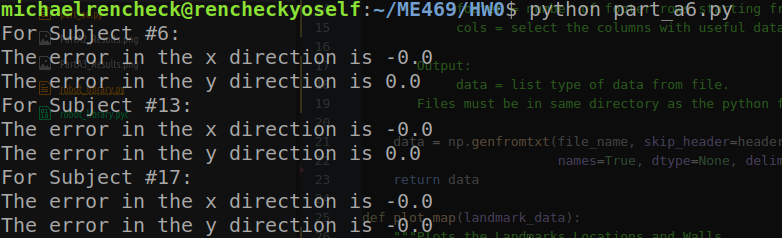
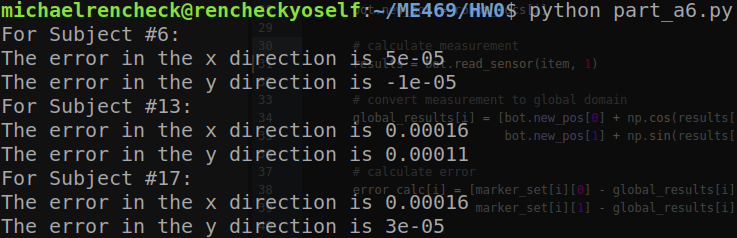
Added README file and noise to movement and measurement models

Changed region(s): [[0.0, 0.0, 1.0, 0.6765], [0.0, 0.7059, 0.9986, 1.0], [0.7178, 0.6471, 1.0, 0.7059]]

diff --git a/HW0/robot_library.py b/HW0/robot_library.py
@@ -17,13 +17,14 @@ class Robot:
 
 
 
-    def make_move(self, movement_set):
+    def make_move(self, movement_set, noise_check):
         """Used to calculate the motion model
             Function to return the next point of motion over some change in time given
             the starting point and velocities.
 
             Input Variable Syntax:
                   movementSet = [v,w,dt]
+                  noise_check = 1 to turn on noise, else add zero noise
 
             Output Variable:
                   newPos = [x,y,heading] relative to the robot's domain
@@ -38,15 +39,27 @@ class Robot:
         vel[1] = movement_set[0]*np.sin(self.cur_pos[2])
         vel[2] = movement_set[1]
 
+        # Create Noise Matrix
+        # std dev for x and y assumed to be .004m
+        # std dev for theta assumed to be .05rad
+        trans_var = 0.000016
+        ang_var = 0.0025
+
+        if noise_check == 1:
+            epsilon = [np.random.normal(0, trans_var), np.random.normal(0, trans_var),
+                       np.random.normal(0, ang_var)]
+        else:
+            epsilon = [0, 0, 0]
+
         #calculate the new position
         for i in range(len(self.cur_pos)):
 
-            self.new_pos[i] = self.cur_pos[i] + vel[i]*movement_set[2]
+            self.new_pos[i] = self.cur_pos[i] + vel[i]*movement_set[2] + epsilon[i]
 
         self.motion_path.append(self.new_pos[:])
 
 
-    def read_sensor(self, target_set):
+    def read_sensor(self, target_set, noise_check):
         """Used to calculate the Measurement model
              Function to return the distance and bearing to a landmark given
              the robot location and landmark location.
@@ -64,8 +77,16 @@ class Robot:
         diff[0] = target_set[0] - self.new_pos[0]
         diff[1] = target_set[1] - self.new_pos[1]
 
+
+        # Set noise value
+        # std dev assume to be 0.009m
+        if noise_check == 1:
+            delta = np.random.normal(0, 0.000036)
+        else:
+            delta = 0
+
         # Calculate the distance and bearing to the landmark
-        expected_value[0] = (diff[0]**2 + diff[1]**2)**.5
-        expected_value[1] = math.atan2(diff[1], diff[0]) - self.new_pos[2]
+        expected_value[0] = (diff[0]**2 + diff[1]**2)**.5 + delta
+        expected_value[1] = math.atan2(diff[1], diff[0]) - self.new_pos[2] + delta
 
         return expected_value

diff --git a/HW0/part_a6.py b/HW0/part_a6.py
@@ -28,7 +28,7 @@ def part_a6():
         bot.new_pos = robot_locs[i]
 
         # calculate measurement
-        results = bot.read_sensor(item)
+        results = bot.read_sensor(item, 1)
 
         # convert measurement to global domain
         global_results[i] = [bot.new_pos[0] + np.cos(results[1]) * results[0],
@@ -40,6 +40,6 @@ def part_a6():
 
         # print error calculations to console
         print "For Subject #" + str(sub_num[i]) + ":"
-        print "The error in the x direction is " + str(round(error_calc[i][0]))
-        print "The error in the y direction is " + str(round(error_calc[i][1]))
+        print "The error in the x direction is " + str(round(error_calc[i][0], 5))
+        print "The error in the y direction is " + str(round(error_calc[i][1], 5))
 part_a6()

diff --git a/HW0/part_a3.py b/HW0/part_a3.py
@@ -89,9 +89,9 @@ def part_a3():
     #ground_x = ground_x[0:20000]
     #ground_y = ground_y[0:20000]
 
-    plt.plot(ground_x[0], ground_y[0], 'kd', markersize=3, label='_nolegend_')
+    #plt.plot(ground_x[0], ground_y[0], 'kd', markersize=3, label='_nolegend_')
     plt.plot(ground_x, ground_y, 'g')
-    plt.plot(ground_x[-1], ground_y[-1], 'ko', markersize=3, label='_nolegend_')
+    #plt.plot(ground_x[-1], ground_y[-1], 'ko', markersize=3, label='_nolegend_')
 
 # Plot Odometry Dataset
 
@@ -101,7 +101,7 @@ def part_a3():
             break
 
         movement_data = [odom_data[i][1], odom_data[i][2], odom_data[i+1][0] - cur_action[0]]
-        bot.make_move(movement_data)
+        bot.make_move(movement_data, 1)
 
     x_arr, y_arr, _t_arr = map(list, zip(*bot.motion_path))
 

diff --git a/HW0/part_a2.py b/HW0/part_a2.py
@@ -18,7 +18,7 @@ def part_2a():
     # motion model
     for item in enumerate(movement_data):
         # calculate new state
-        bot.make_move(item[1])
+        bot.make_move(item[1], 0)
 
     # parse data to plot
     x_arr, y_arr, _t_arr = map(list, zip(*bot.motion_path))

diff --git a/HW0/README.md b/HW0/README.md
@@ -1,0 +1,14 @@
+MICHAEL RENCHECK
+
+HOMEWORK 0 Part A
+
+Instructions:
+1) Place all python scripts in the same directory as the dataset
+
+2) The pythons scripts depend on numpy and matplotlib libraries for data import
+   and results printing.
+
+3) Run each part_aX.py file to view the results for each question.
+      -PartA3 run time is less than 5s (at least in my experience)
+
+Also included are the images of the results
